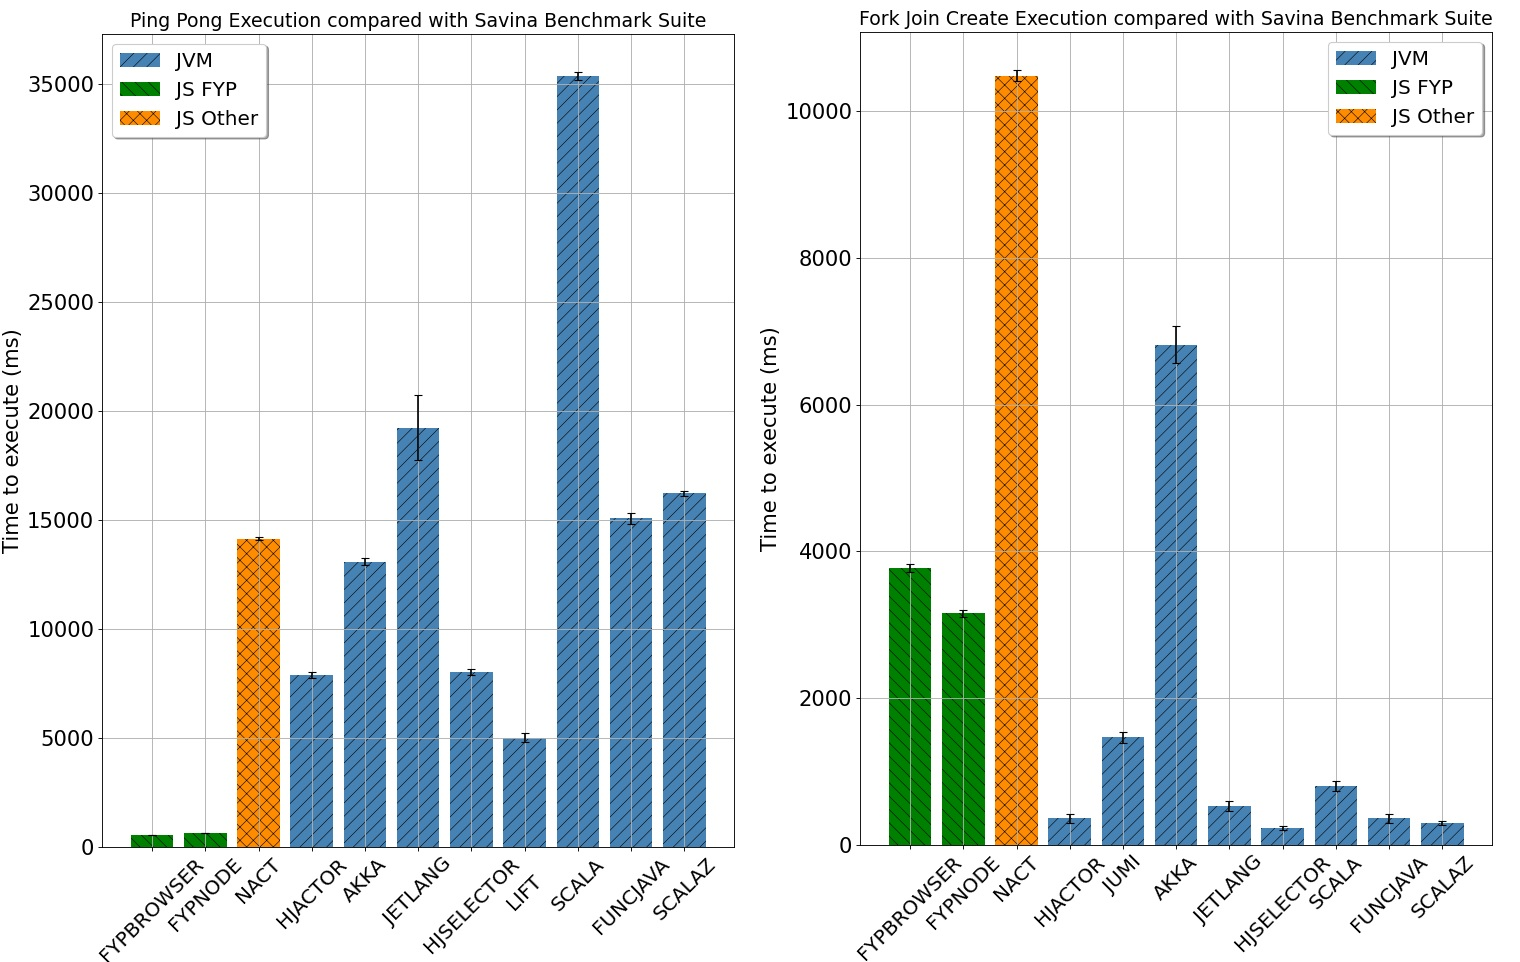
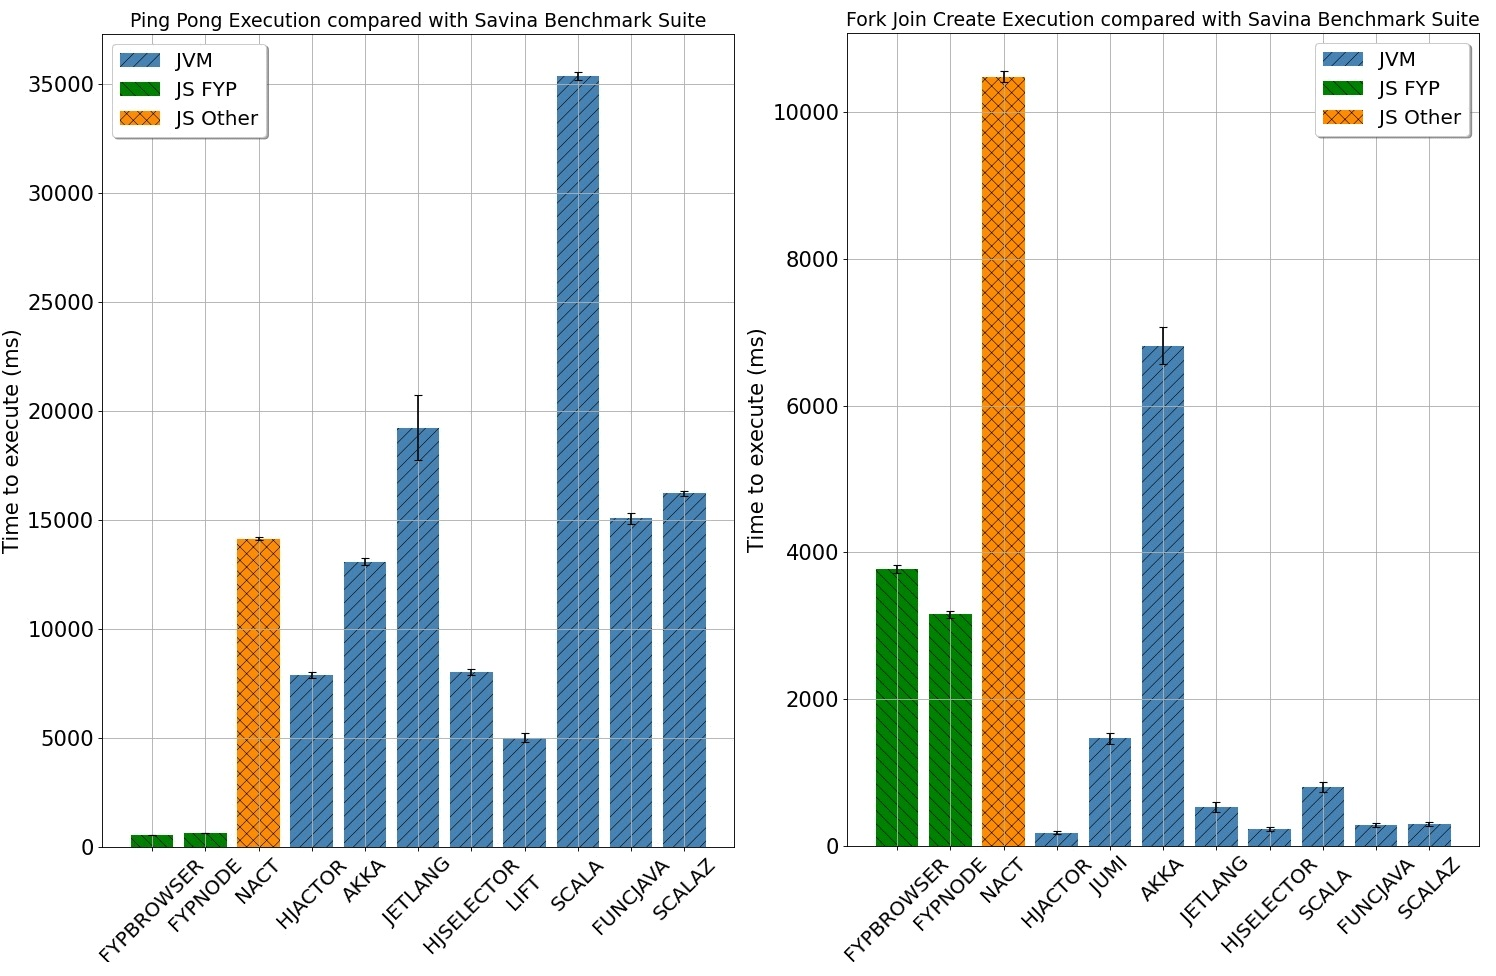
Fixed data and graph of savina comparison

diff --git a/documentation/fyp-report/fyp.tex b/documentation/fyp-report/fyp.tex
@@ -792,10 +792,10 @@ The Ping Pong benchmark is executed across the different environment with an equ
         \hline
         Benchmark                & Average & Standard Error \\ \hline
         Akka                     & 6817.83 & 254.26         \\
-        Functional Java          & 360.17  & 58.97          \\
+        Functional Java          & 282.83  & 29.22          \\
         FYP Browser              & 3772.4  & 55.6           \\
         FYP Node                 & 3154.8  & 46.3           \\
-        Habanero Java (Actor)    & 360.17  & 58.97          \\
+        Habanero Java (Actor)    & 177.17  & 19.07          \\
         Habanero Java (Selector) & 230.08  & 21.96          \\
         Jetlang                  & 530.92  & 68.7           \\
         Jumi                     & 1464.75 & 77.53          \\

diff --git a/benchmarks/visualisations/speedup.py b/benchmarks/visualisations/speedup.py
@@ -298,11 +298,6 @@ mandelbrot_node_speedup_err = [sem(el) for el in mandelbrot_node_speedup_data]
 mandelbrot_browser_speedup_err = [sem(el)
                                   for el in mandelbrot_browser_speedup_data]
 
-print([round(x, 2) for x in mandelbrot_node_speedup])
-print([round(x, 2) for x in mandelbrot_browser_speedup])
-print([round(x, 2) for x in mandelbrot_node_speedup_err])
-print([round(x, 2) for x in mandelbrot_browser_speedup_err])
-
 figure(figsize=(7.5, 6), dpi=80)
 plt.axvline(x=4, ymin=0, ymax=10, color='black', label='Local up to here')
 

diff --git a/benchmarks/visualisations/savina.py b/benchmarks/visualisations/savina.py
@@ -34,8 +34,8 @@ def compare(directory, title, output):
 
     averages = [np.average(data[key]) for key in data.keys()]
     errors = [sem(data[key]) for key in data.keys()]
-    # for n in np.arange(len(averages)):
-    #     print(list(data.keys())[n], averages[n], errors[n])
+    for n in np.arange(len(averages)):
+        print(list(data.keys())[n], averages[n], errors[n])
     figure(figsize=(10.2, 13.2), dpi=80)
     plt.bar(data.keys(), averages, yerr=errors,
             hatch='//', color='steelblue', label='JVM', capsize=4)
